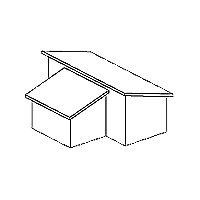
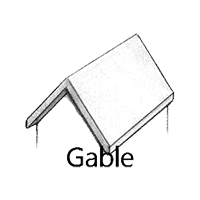
UI整合換屋頂

diff --git a/js/interact.js b/js/interact.js
@@ -126,7 +126,7 @@ function PartClick()
 	setInvisibleFuncBar();
 }
 //For PartBar
-var totalPart = [10, 10, 9];//0-window 1-door 2-roof
+var totalPart = [10, 10, 3];//0-window 1-door 2-roof
 var flag = [0, 0, 0];//0-window 1-door 2-roof
 function componentClick(id){
 	id = id.split("")[id.length-1];
@@ -160,8 +160,14 @@ function componentClick(id){
 	getStyle("subPartBar").display = "block";
 	
 }
+var rfcomponent = ["gable", "hip", "mansard"];
 function subPartClick(id){
-	console.log(id);
+	tmp = id.split("");
+	type = parseInt(tmp[0]);	index = parseInt(tmp[1]);
+	if(type ==2)//roof
+	{
+		changeRoof("roof/" + rfcomponent[index-1]);
+	}
 }
 
 function closePartBar(id){
